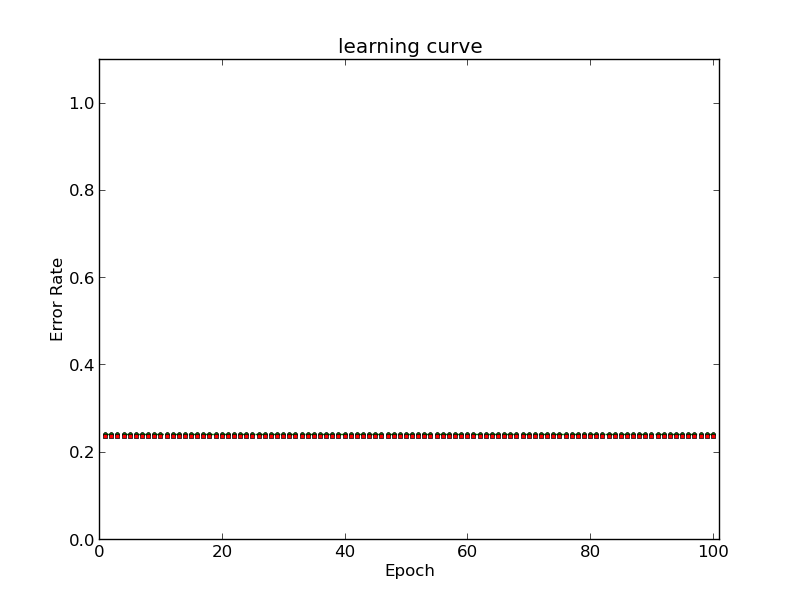
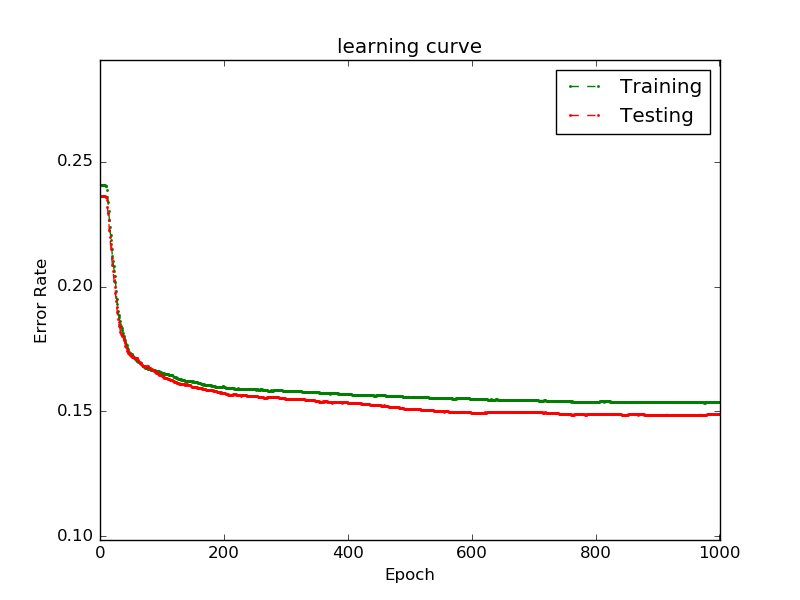
better version

diff --git a/gradient_descent.py b/gradient_descent.py
@@ -17,23 +17,25 @@ class LRclassifier(object):
 
     # truncate big numbers
     def exp(self, x):
-        if x > 45:
-            return math.exp(45)
+        if x > 100:
+            return math.exp(100)
         else:
             return math.exp(x)
 
     def logistic_function(self, t):
-        return 1.0 / (1 + self.exp(-1.0 * t))
+        return 1.0 / (1 + math.exp(t))
 
-    def update_gradients(self, x, y):
-        # compute gradient
-        t = np.dot(x, self.weights)
-        gradient =  -1.0 * self.logistic_function(-1.0 * y * t) * y * x
-        # take a step down
-        self.gradients -= self.step_size * gradient
+    def update_gradients(self, Xtrain, Ytrain):
+        for x, y in zip(Xtrain, Ytrain):
+            # compute gradient
+            gradient =  self.logistic_function(y * np.dot(x, self.weights)) * (-1.0 * y) * x
+            # take a step down
+            self.gradients -= self.step_size * gradient
 
     def l2_update(self):
         # regularization
+        # print "weights:", np.linalg.norm(self.weights)
+        # print "gradients", np.linalg.norm(self.gradients)
         self.gradients += self.lmbd * self.weights
 
     def update_weights(self):
@@ -58,10 +60,15 @@ class LRclassifier(object):
     def predict(self, samples):
         ret = []
         for x in samples:
-            t = np.dot(x, self.weights)
-            prob_p = self.logistic_function(t)
+            prob_p = self.logistic_function(-np.dot(x, self.weights))
             if prob_p > .5:
                 ret.append(1)
             else:
                 ret.append(-1)
         return np.asarray(ret)
+
+    def train(self, X, Y):
+        self.update_gradients(X, Y)
+        self.l2_update()
+        self.update_weights()
+        self.reset_gradient()

diff --git a/run.py b/run.py
@@ -7,14 +7,15 @@ import matplotlib.pyplot as pl
 
 def plot_func(epls, trls, tels):
     pl.figure(1)
-    pl.plot(epls, trls, color="green", marker='o', ls="--", ms=3)
-    pl.plot(epls, tels, color="red", marker='s', ls="-*", ms=3)
+    train_line, = pl.plot(epls, trls, color="green", marker='.', ls="--", ms=3)
+    test_line, = pl.plot(epls, tels, color="red", marker='.', ls="--", ms=3)
 
     pl.xlim(0.0, epls[-1]+1.0)
-    pl.ylim(0.0, 1.1)
+    pl.ylim(min([min(trls), min(tels)])-0.05, max([max(trls), max(tels)])+0.05)
     pl.xlabel("Epoch")
     pl.ylabel("Error Rate")
     pl.title("learning curve")
+    pl.legend([train_line, test_line], ['Training', 'Testing'])
     filename="convergence"+".png"
     pl.savefig(filename, format='png')
     print "plotting ok"
@@ -47,7 +48,7 @@ if __name__ == "__main__":
     num_samples = Xtrain.shape[0]
 
     classifier = LRclassifier(lr, lmbd, num_feats, num_samples)
-    epoches = 100
+    epoches = 1000
 
     train_error_ls, test_error_ls =[], []
 
@@ -55,12 +56,7 @@ if __name__ == "__main__":
 
         print "\n==============Running epoch: %d=================\n" % epoch
 
-        for x, y in zip(Xtrain, Ytrain):
-            classifier.update_gradients(x, y)
-            classifier.l2_update()
-            classifier.update_weights()
-
-        classifier.reset_gradient()
+        classifier.train(Xtrain, Ytrain)
 
         # prediction
         Predtrain = classifier.predict(Xtrain)
